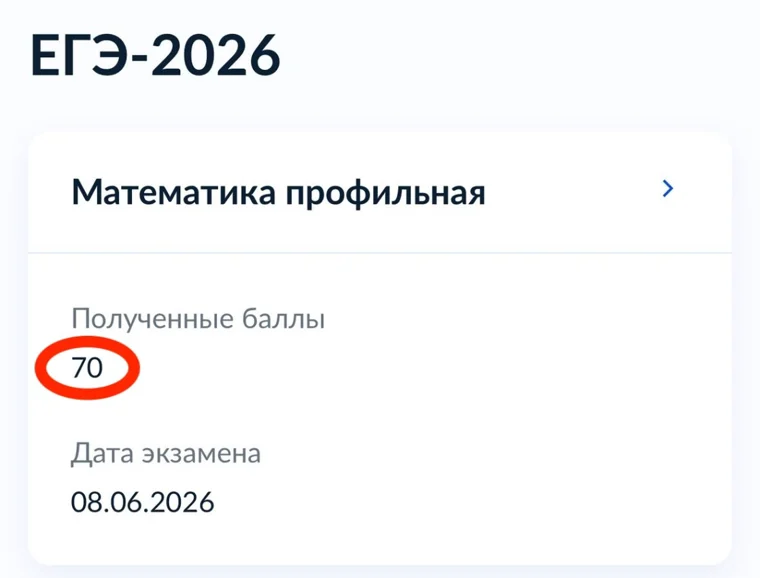
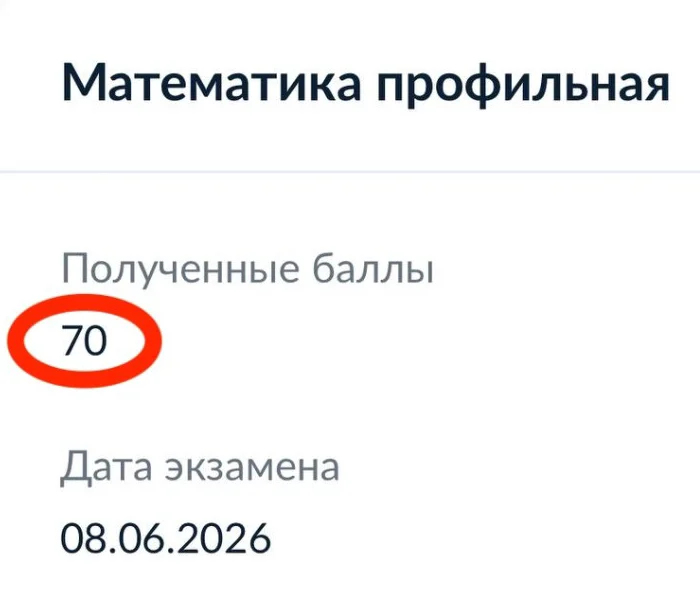
Add student cabinet and whiteboard tiles; rearrange student stories

diff --git a/index.html b/index.html
@@ -124,6 +124,11 @@
   .story{background:var(--surface);border:1px solid var(--line);border-radius:var(--r-panel);overflow:hidden;display:flex;flex-direction:column}
   .story-body{padding:30px}
   .story-split{display:grid;grid-template-columns:168px 1fr;gap:26px;padding:28px;align-items:start}
+  .story-top{grid-column:1/-1;grid-template-columns:168px 1fr 400px;align-items:center}
+  .story-top .story-pic{align-self:start}
+  .story-top .story-proof{grid-column:auto}
+  .story .story-pic-doc{background:#fff;border:1px solid var(--line);height:auto}
+  .story .story-pic-doc img{object-fit:contain;height:auto}
   .story-split .story-body{padding:0}
   .story-pic{background:var(--accent-soft);height:200px;border-radius:var(--r-tile);overflow:hidden}
   .story-pic img{width:100%;height:100%;object-fit:cover}
@@ -134,10 +139,6 @@
   .story .tg:hover{color:var(--accent-ink);text-decoration:underline}
   .story-proof{grid-column:1/-1;margin:0;border:1px solid var(--line);border-radius:var(--r-tile);overflow:hidden;background:#fff}
   .story-proof img{width:100%}
-  .story-wide{grid-column:1/-1;background:var(--accent-soft);border-color:transparent;display:grid;grid-template-columns:auto 1fr 240px;gap:44px;align-items:center;padding:30px}
-  .story-wide .story-proof{grid-column:auto;border-color:transparent}
-  .story-wide h3{margin-top:0}
-  .story-wide p{color:var(--accent-ink)}
 
   /* Bento */
   .bento{display:grid;grid-template-columns:repeat(6,1fr);gap:16px;margin-top:48px}
@@ -152,6 +153,8 @@
   .bar s{display:block;width:100%;border-radius:8px 8px 3px 3px;background:var(--accent-soft);text-decoration:none;transform-origin:bottom;transition:transform .9s var(--ease)}
   .bar:last-child s{background:var(--accent)}
   .bar:last-child{color:var(--accent)}
+  .tile-h{grid-column:span 3}
+  .tile-h .shot{max-height:300px}
   .tile-s{grid-column:span 2}
   .tile-accent{background:var(--accent-soft);border-color:transparent}
   .tile-accent p{color:var(--accent-ink)}
@@ -241,6 +244,8 @@
     .fact:nth-child(4){border-top:1px solid var(--line)}
     .bento{grid-template-columns:1fr 1fr}
     .tile-trainer,.tile-chart{grid-column:span 2}
+    .story-top{grid-template-columns:168px 1fr}
+    .story-top .story-proof{grid-column:1/-1}
     .tile-s{grid-column:span 1}
     .tile-s:last-child{grid-column:span 2}
     .quotes{columns:2}
@@ -264,8 +269,7 @@
     .stories{grid-template-columns:1fr}
     .story-split{grid-template-columns:104px 1fr;gap:16px;padding:22px}
     .story-pic{height:124px}
-    .story-wide{grid-template-columns:1fr;gap:16px;padding:26px 24px}
-    .story-wide .story-proof{max-width:280px}
+    .story-top .story-proof{grid-column:1/-1}
     .story-body{padding:24px}
     .bento{grid-template-columns:1fr}
     .tile-trainer,.tile-chart,.tile-s,.tile-s:last-child{grid-column:auto}
@@ -341,7 +345,7 @@
     <h2 class="rv">С чем приходят и что получают на экзамене</h2>
     <p class="lead rv">Три истории учеников. Максиму и Феде можно написать и спросить о занятиях напрямую.</p>
     <div class="stories">
-      <article class="story story-split rv">
+      <article class="story story-split story-top rv">
[1 lines of base64/hex data omitted]
         <div class="story-body">
           <div class="story-head">
@@ -364,13 +368,15 @@
           <a class="tg" href="https://t.me/kibrr5" target="_blank" rel="noopener">Спросить у Феди: @kibrr5</a>
         </div>
       </article>
-      <article class="story story-wide rv">
-        <div class="case-score num"><i>0</i><span class="arrow">→</span><span class="to">70</span></div>
-        <div>
-          <h3>Егор. Бюджет РУТ МИИТ</h3>
+      <article class="story story-split rv">
+        <div class="story-pic story-pic-doc"><img src="assets/img/result-egor.webp" width="700" height="600" loading="lazy" alt="Результат Егора на ЕГЭ по профильной математике: 70 баллов"></div>
+        <div class="story-body">
+          <div class="story-head">
+            <div><h3>Егор</h3><span>Поступил на бюджет в РУТ МИИТ</span></div>
+          </div>
+          <div class="case-score num"><i>0</i><span class="arrow">→</span><span class="to">70</span></div>
           <p>Нулевая база после 9 класса из-за частой смены учителей. Рассчитывали на 55, мечтали о 70. За 5 месяцев восстановили степени и корни, прошли логарифмы и тригонометрию, тренировались в тренажёре по ключевым прототипам.</p>
         </div>
-        <figure class="story-proof"><img src="assets/img/result-egor.webp" width="760" height="578" loading="lazy" alt="Результат Егора на ЕГЭ по профильной математике: 70 баллов"></figure>
       </article>
     </div>
   </div>
@@ -436,7 +442,17 @@
       </div>
       <div class="tile tile-s tile-accent rv">
         <h3>На связи всю неделю</h3>
-        <p>Отвечаю на вопросы между занятиями, присылаю шпаргалки и разборы. Решаем на интерактивной доске, всё наглядно.</p>
+        <p>Отвечаю на вопросы между занятиями, присылаю шпаргалки и разборы сложных задач.</p>
+      </div>
+      <div class="tile tile-trainer tile-h rv">
+        <h3>У каждого ученика свой кабинет</h3>
+        <p>Расписание, домашние задания и их проверка в одном месте. Ничего не теряется в переписке.</p>
+        <div class="shot"><img src="assets/img/platform-homework.webp" width="1400" height="1011" loading="lazy" alt="Кабинет ученика: карточка домашнего задания со сроком и статусом"></div>
+      </div>
+      <div class="tile tile-trainer tile-h rv">
+        <h3>Занятия на общей доске</h3>
+        <p>Ученик пишет решение сам, я вижу каждый шаг и сразу поправляю.</p>
+        <div class="shot"><img src="assets/img/platform-board.webp" width="1300" height="740" style="object-position:right top" loading="lazy" alt="Интерактивная доска с решением квадратного уравнения"></div>
       </div>
     </div>
   </div>
